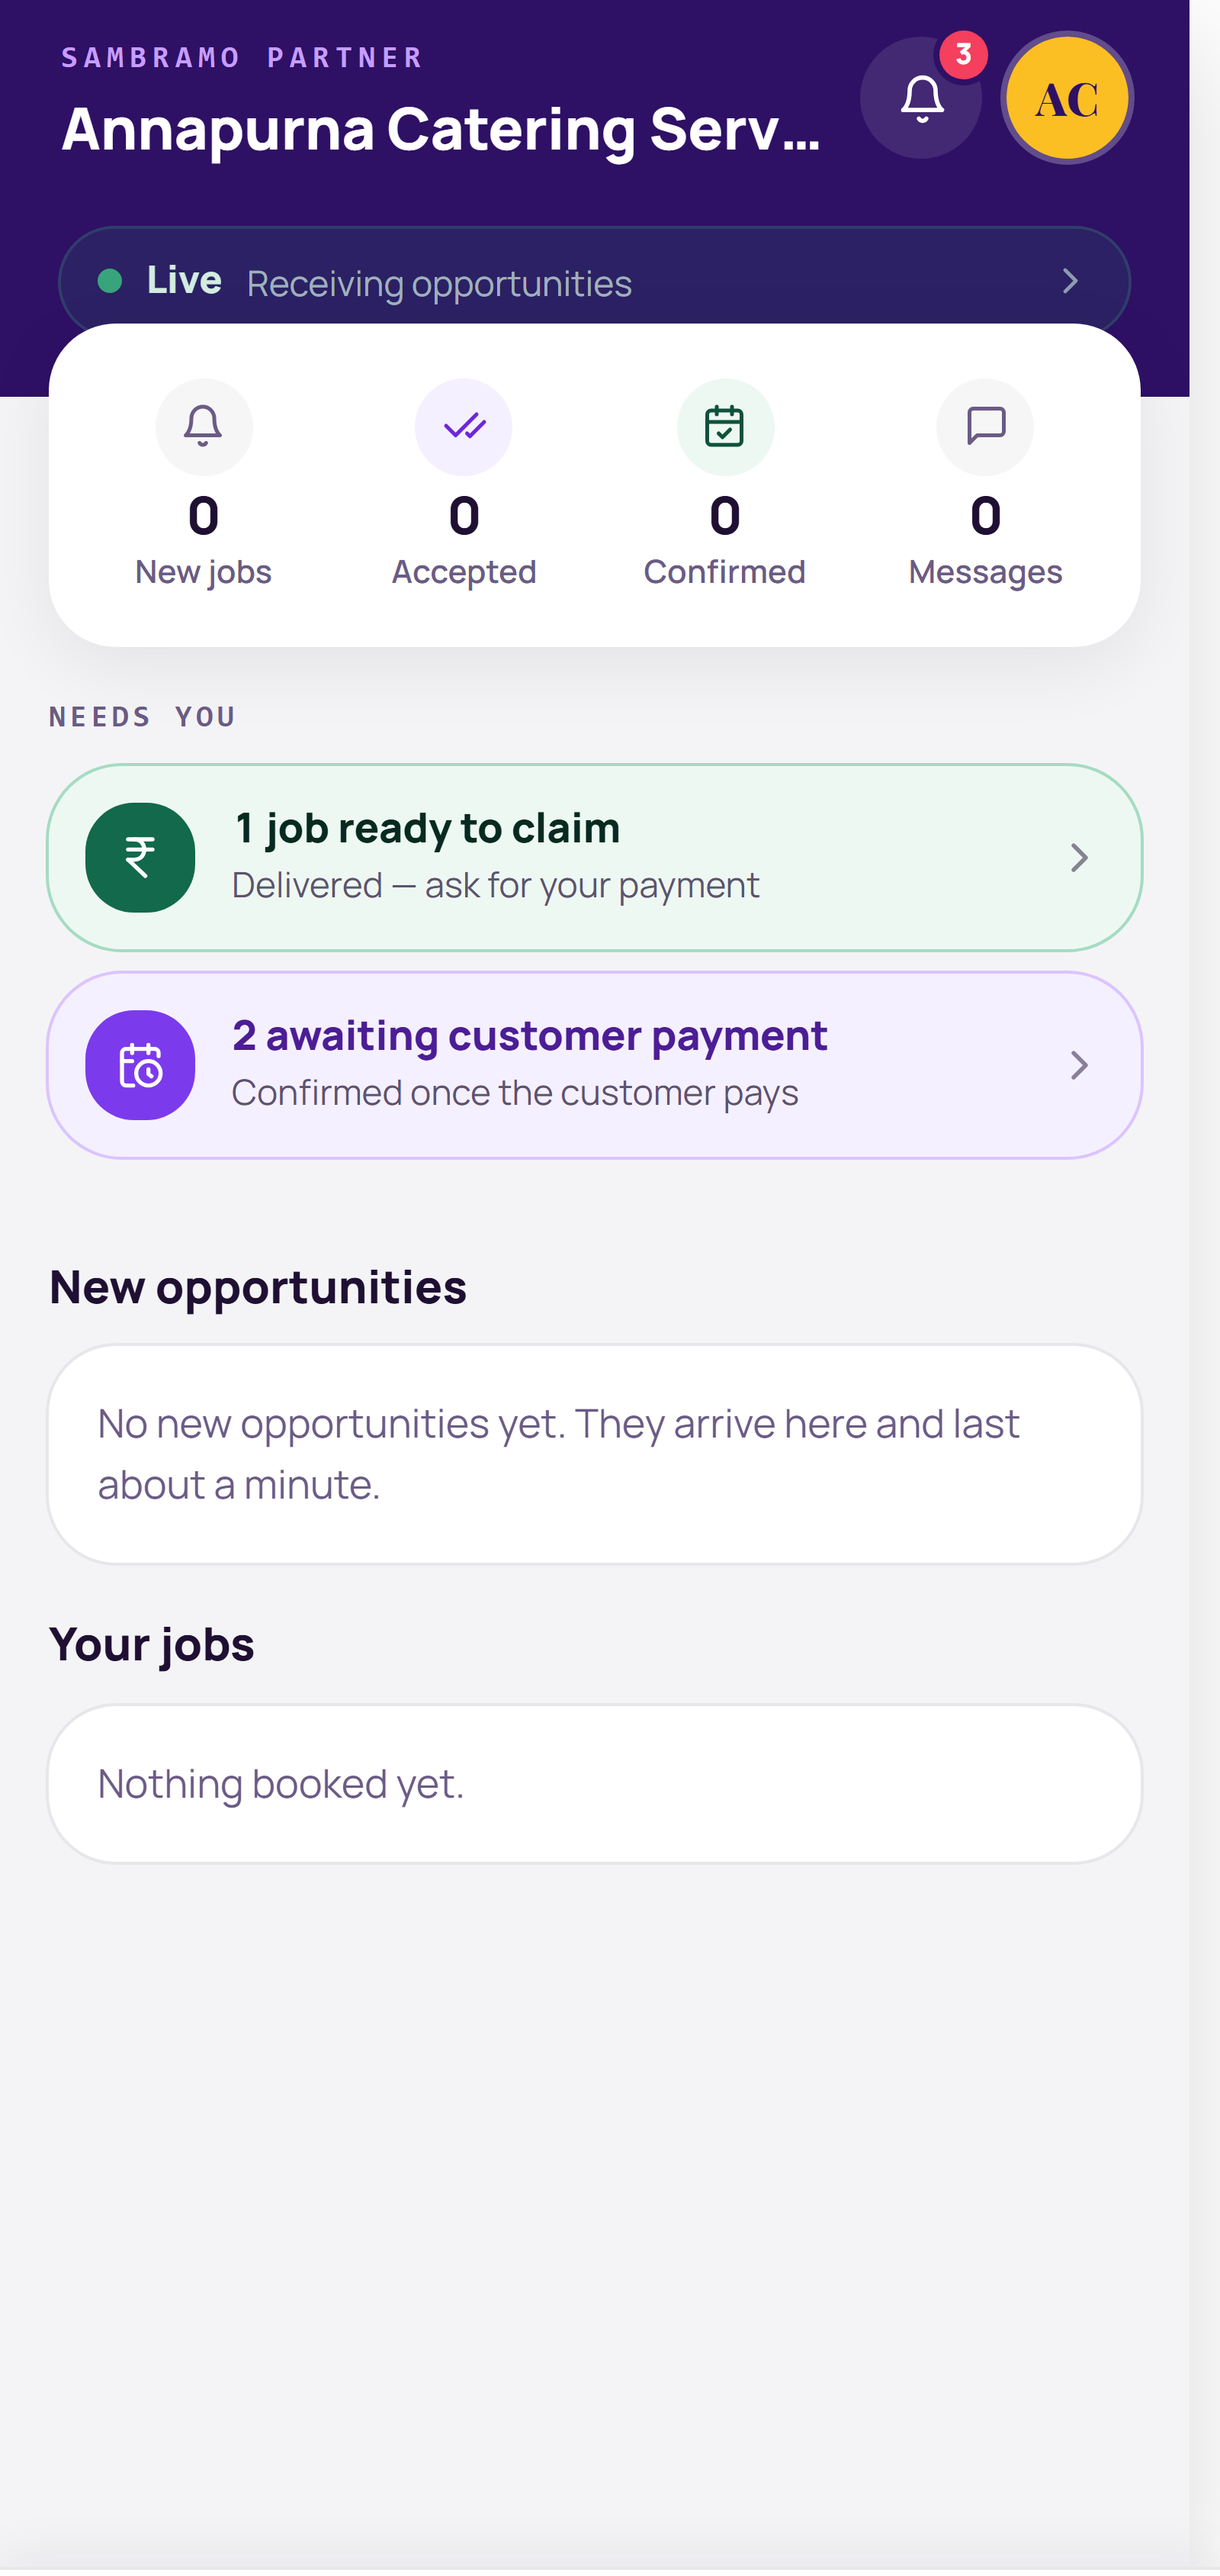
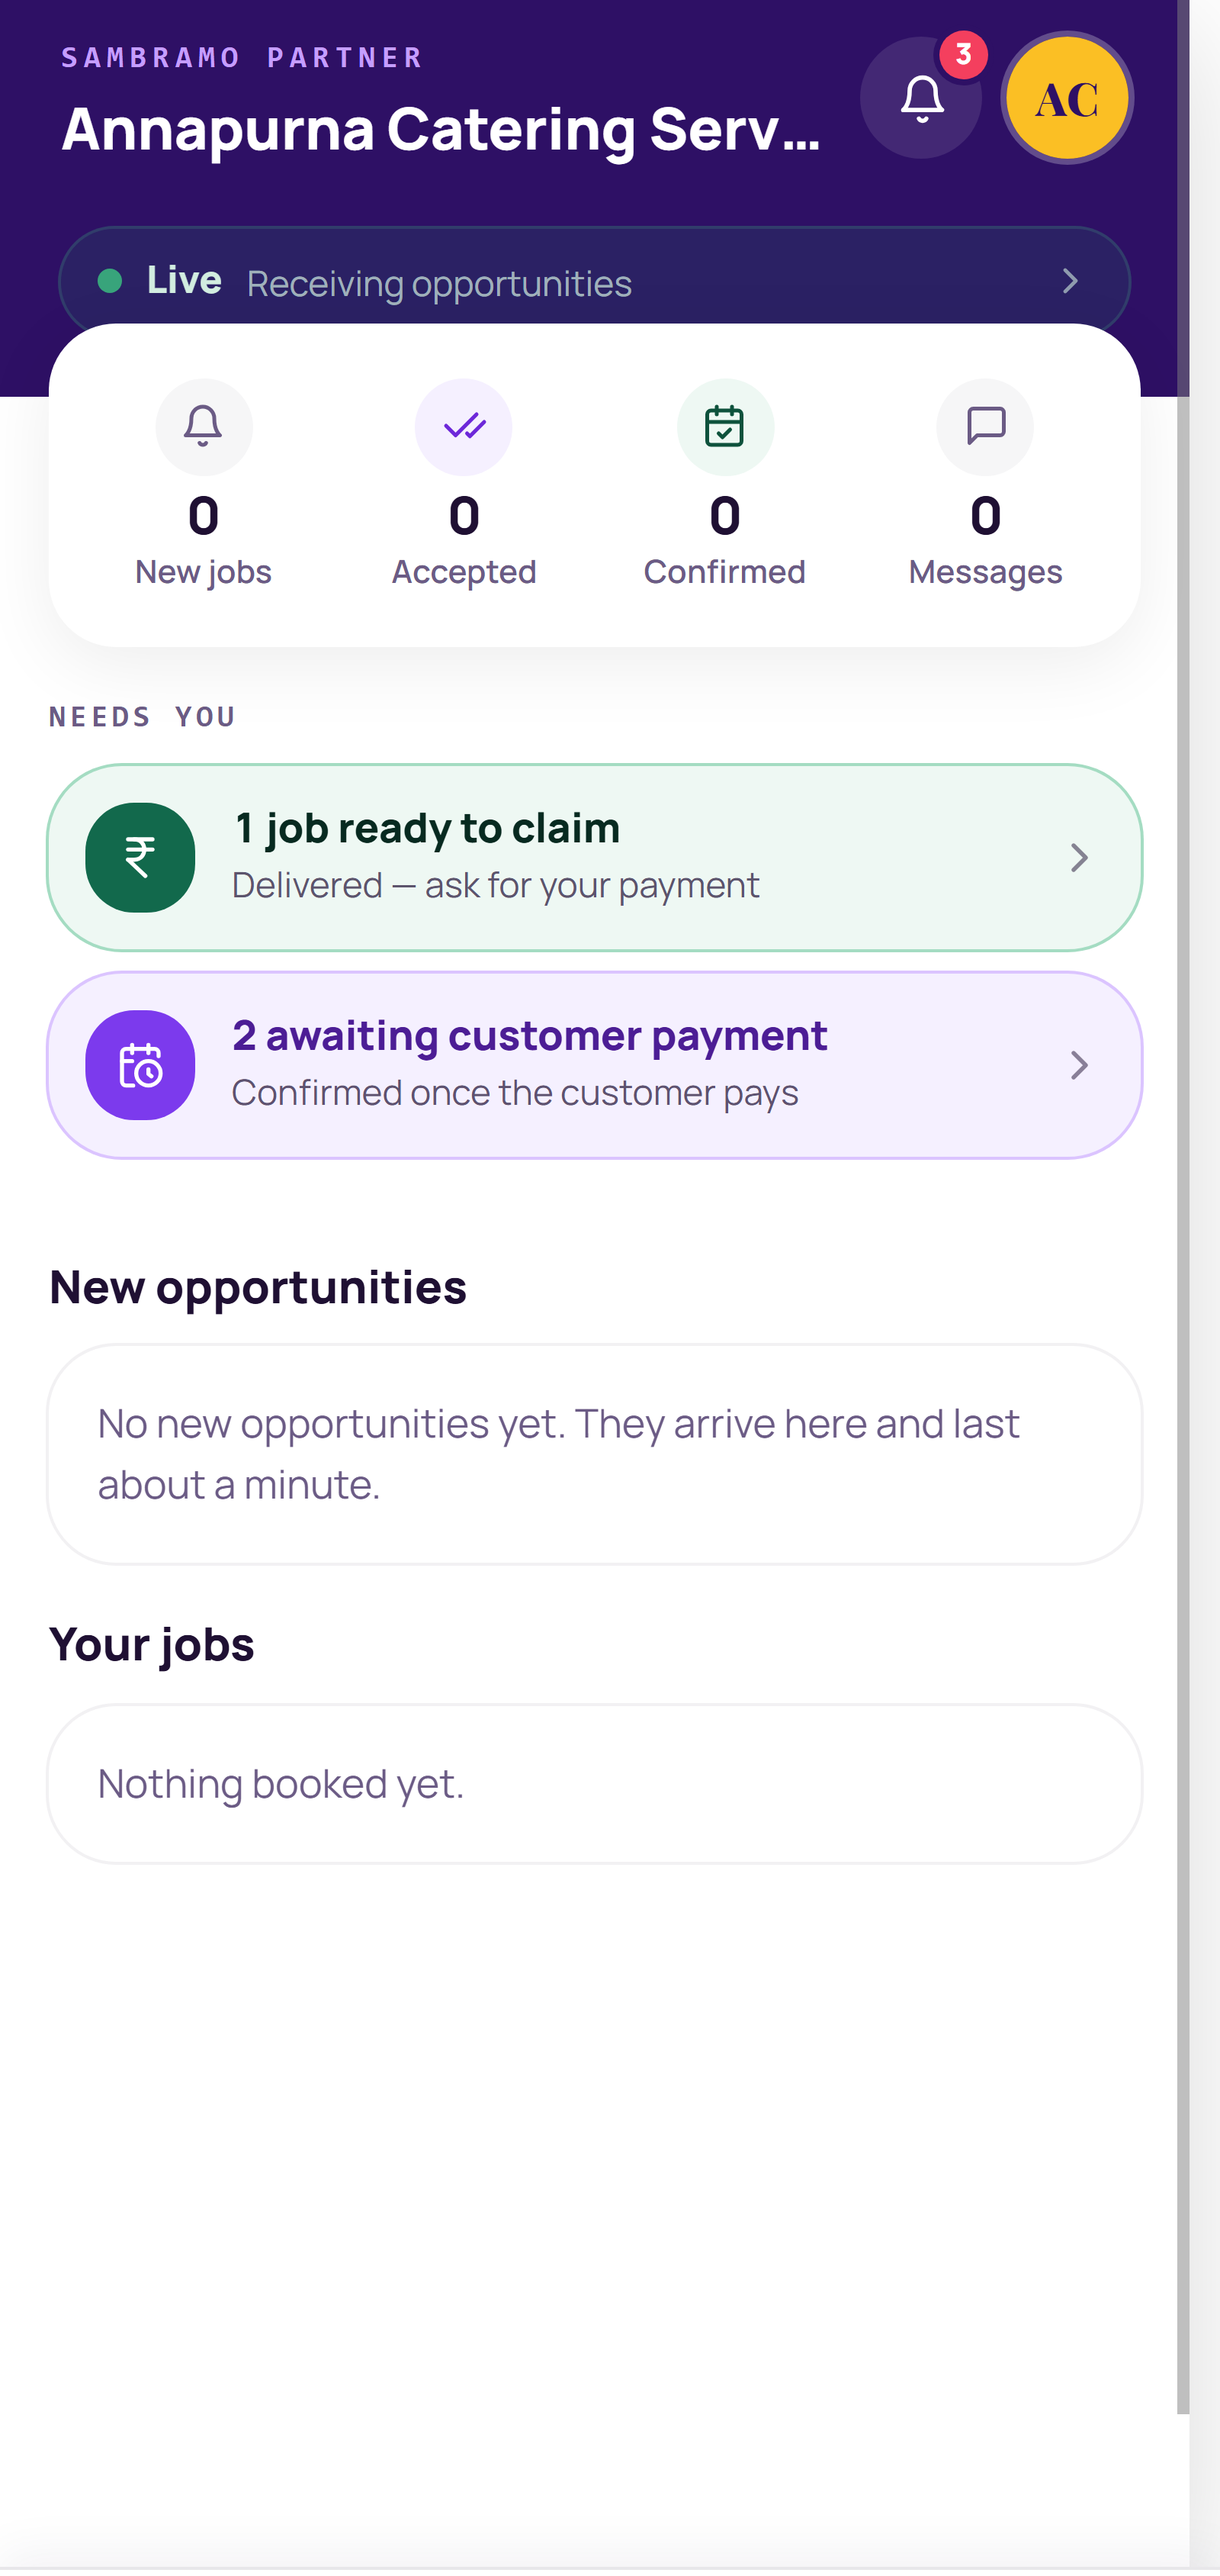
White ground, purple selection: the dark partner app was one token
There was never a dark theme to remove. `body` is #FFFFFF and there is
no prefers-color-scheme block anywhere in src/. The near-black was one
token used wrongly, by me, in the last two turns.

`--surface-sunk` is #110F19 and index.css says, in the comment directly
above it, "used at low alpha: bg-surface-sunk/5". I used it BARE as
PartnerAppShell's page fill -- so it painted #110F19 behind every tab,
every white card floated on black, and any heading using an ink token
sank into it. Two more bare uses in JobDetails and CalendarMonth. The
rest of the repo's thirty-odd uses are all correctly /[0.05].

Rather than swap one class, --page and --page-sunk now exist as opaque
tokens: white canvas, #F7F5FC for a recessed panel -- a tint of the
brand purple rather than a grey, so a recess still belongs to Sambramo.
Nobody has to reach for an alpha modifier to get a page colour, which is
the mistake that started this.

The sign-in screen goes white too, and that is a leftover being removed
rather than a design being overridden: its bg-plum-950 framed a
full-bleed hero that moved to its own route, leaving <main
className="flex-1 bg-white"> covering almost everything and the dark
showing as a strip behind the status bar. Nothing inside was ever
rewritten for a dark ground -- the sign-in button is text-ink on
bg-ink/[0.04], the email field is text-ink with an ink-mute placeholder,
and the file contains exactly ONE text-white: a tick inside a checkbox.
[…]

Changed region(s): [[0.9375, 0.0, 1.0, 0.9331]]

diff --git a/src/components/layout/PartnerBottomNav.jsx b/src/components/layout/PartnerBottomNav.jsx
@@ -198,13 +198,23 @@ export default function PartnerBottomNav() {
                 {/* The active pill sits behind the icon rather than
                     colouring the whole cell: a full-width fill at this
                     size reads as a pressed state that never released. */}
+                {/* ── Purple, not saffron ──────────────────────────
+                    The active pill was bg-saffron-400 with a plum glyph.
+                    Saffron is this app's ATTENTION colour — it marks a
+                    payment ready to claim, a document sent back, a day
+                    that is too tight. Spending it on "which tab am I
+                    on", which is answered anyway by the bold label
+                    underneath, left nothing louder for the things that
+                    genuinely need somebody.
+
+                    Sambramo is purple. The selected tab is purple. */}
                 <span className={`flex h-7 w-12 items-center justify-center rounded-full transition-colors ${
-                  on ? 'bg-saffron-400' : 'bg-transparent'
+                  on ? 'bg-plum-600' : 'bg-transparent'
                 }`}>
-                  <Icon size={17} className={on ? 'text-plum-950' : 'text-ink-mute'} />
+                  <Icon size={17} className={on ? 'text-white' : 'text-ink-mute'} />
                 </span>
                 <span className={`text-[10.5px] leading-none ${
-                  on ? 'font-extrabold text-ink' : 'font-bold text-ink-mute'
+                  on ? 'font-extrabold text-plum-700' : 'font-bold text-ink-mute'
                 }`}>
                   {label}
                 </span>

diff --git a/scripts/scenes/jobs-at-390.jsx b/scripts/scenes/jobs-at-390.jsx
@@ -9,6 +9,7 @@
 import React from 'react'
 import { MemoryRouter } from 'react-router-dom'
 import { AuthContext } from '../../src/context/AuthContext'
+import PartnerAppShell from '../../src/components/layout/PartnerAppShell'
 import JobsHeader from '../../src/components/partner/JobsHeader'
 import JobsStats from '../../src/components/partner/JobsStats'
 import AttentionSummary from '../../src/components/partner/AttentionSummary'
@@ -20,9 +21,9 @@ export default function JobsAt390() {
     <MemoryRouter initialEntries={['/dashboard/vendor']}>
       <AuthContext.Provider value={{ user: { id: 'shot' }, profile: { id: 'shot', role: 'vendor' } }}>
       <div style={{ width: 390, height: 844, position: 'relative',
-                    overflow: 'hidden', background: '#f4f4f6',
+                    overflow: 'hidden',
                     boxShadow: '0 10px 40px rgba(0,0,0,0.15)' }}>
-        <div style={{ height: '100%', overflowY: 'auto', paddingBottom: 76 }}>
+        <div style={{ height: '100%', overflowY: 'auto' }}><PartnerAppShell>
           <JobsHeader
             lifecycle={LIFECYCLE.LIVE}
             businessName="Annapurna Catering Services"
@@ -58,7 +59,7 @@ export default function JobsAt390() {
               <p className="text-[13px] text-ink-mute">Nothing booked yet.</p>
             </div>
           </div>
-        </div>
+        </PartnerAppShell></div>
 
         {/* The one navigation surface. */}
         <div style={{ position: 'absolute', left: 0, right: 0, bottom: 0 }}>

diff --git a/src/pages/partner/PartnerEntry.jsx b/src/pages/partner/PartnerEntry.jsx
@@ -196,7 +196,24 @@ export default function PartnerEntry() {
   }
 
   return (
-    <div className="flex min-h-screen flex-col bg-plum-950">
+    /* ── White, not plum-950 ──────────────────────────────────────────
+       This wrapper was dark because a full-bleed hero used to sit above
+       the sheet and the dark framed it. Those cards became their own
+       routes (/partner/onboarding, /partner/location-permission) and the
+       artwork went with them — leaving `<main className="flex-1
+       bg-white">` covering almost the whole screen and the dark showing
+       only as a strip behind the status bar.
+
+       Worse, nothing inside was ever rewritten for a dark ground: the
+       sign-in button is `text-ink` (#1F1033) on `bg-ink/[0.04]`, the
+       email field is `text-ink` with an `ink-mute` placeholder, and
+       there is exactly ONE `text-white` in the file — a tick inside a
+       checkbox. Anywhere the dark did show through, near-black text sat
+       on dark purple.
+
+       So this is a leftover being removed rather than a design being
+       overridden, and the content needs no changes to follow it. */
+    <div className="flex min-h-screen flex-col bg-page">
 
       {/* The cards used to be the hero of this screen and the location
           gate used to sit over it. Both are their own routes now --

diff --git a/src/index.css b/src/index.css
@@ -79,6 +79,21 @@
        why every "sunk" surface in the app read faintly lavender rather than
        recessed. A recess is not a colour. */
     --surface-sunk: 17 15 25;      /* used at low alpha: bg-surface-sunk/5 */
+
+    /* ── The partner app's ground, and its recesses ──────────────────
+       `--surface-sunk` above is a NEAR-BLACK meant only for low-alpha
+       tints, and it was used bare as the partner app's page background:
+       `bg-surface-sunk` on PartnerAppShell painted #110F19 behind every
+       tab. Every white card floated on black and every section heading
+       that used an ink token vanished into it.
+
+       These two exist so nobody has to reach for an alpha modifier to
+       get a page colour. `--page` is the canvas; `--page-sunk` is the
+       very light lavender for a recessed panel — a tint of the brand
+       purple rather than a grey, so a recess still belongs to Sambramo.
+       Both are opaque and safe to use bare, which is the whole point. */
+    --page:        255 255 255;    /* #FFFFFF */
+    --page-sunk:   247 245 252;    /* #F7F5FC */
     --hairline:     31 16 51;      /* used at low alpha: ring-hairline/10 */
     --accent:      124 58 237;     /* plum-600 */
 

diff --git a/tailwind.config.js b/tailwind.config.js
@@ -153,6 +153,10 @@ export default {
         'ink-faint':    'rgb(var(--ink-faint) / <alpha-value>)',
         surface:        'rgb(var(--surface) / <alpha-value>)',
         'surface-sunk': 'rgb(var(--surface-sunk) / <alpha-value>)',
+        /* Opaque page colours. Unlike surface-sunk these are safe to
+           use bare -- see the note beside them in index.css. */
+        page:           'rgb(var(--page) / <alpha-value>)',
+        'page-sunk':    'rgb(var(--page-sunk) / <alpha-value>)',
         hairline:       'rgb(var(--hairline) / <alpha-value>)',
         accent:         'rgb(var(--accent) / <alpha-value>)',
 

diff --git a/src/components/partner/CalendarMonth.jsx b/src/components/partner/CalendarMonth.jsx
@@ -79,7 +79,7 @@ export default function CalendarMonth({ vendorId, availability, onSetDay, onSetR
           above it, and a sheet that covers the calendar is one they
           have to close to check what they just did. */}
       {selected && editing && (
-        <div className="rounded-[22px] bg-surface-sunk p-3.5 ring-1 ring-ink/[0.07]">
+        <div className="rounded-[22px] bg-page-sunk p-3.5 ring-1 ring-ink/[0.07]">
           <SetAvailability
             date={selected}
             availability={availability}

diff --git a/src/pages/partner/JobDetails.jsx b/src/pages/partner/JobDetails.jsx
@@ -106,7 +106,7 @@ export default function JobDetails() {
     : null
 
   return (
-    <div className="native-screen flex flex-col bg-surface-sunk">
+    <div className="native-screen flex flex-col bg-page">
       <Header onBack={() => navigate(-1)} title="Job details" />
 
       <div className="min-h-0 flex-1 space-y-3 overflow-y-auto px-4 pb-8">

diff --git a/src/components/layout/PartnerAppShell.jsx b/src/components/layout/PartnerAppShell.jsx
@@ -43,7 +43,7 @@
  */
 export default function PartnerAppShell({ children }) {
   return (
-    <div className="flex min-h-[100dvh] flex-col bg-surface-sunk">
+    <div className="flex min-h-[100dvh] flex-col bg-page">
       <main
         className="flex-1"
         style={{
